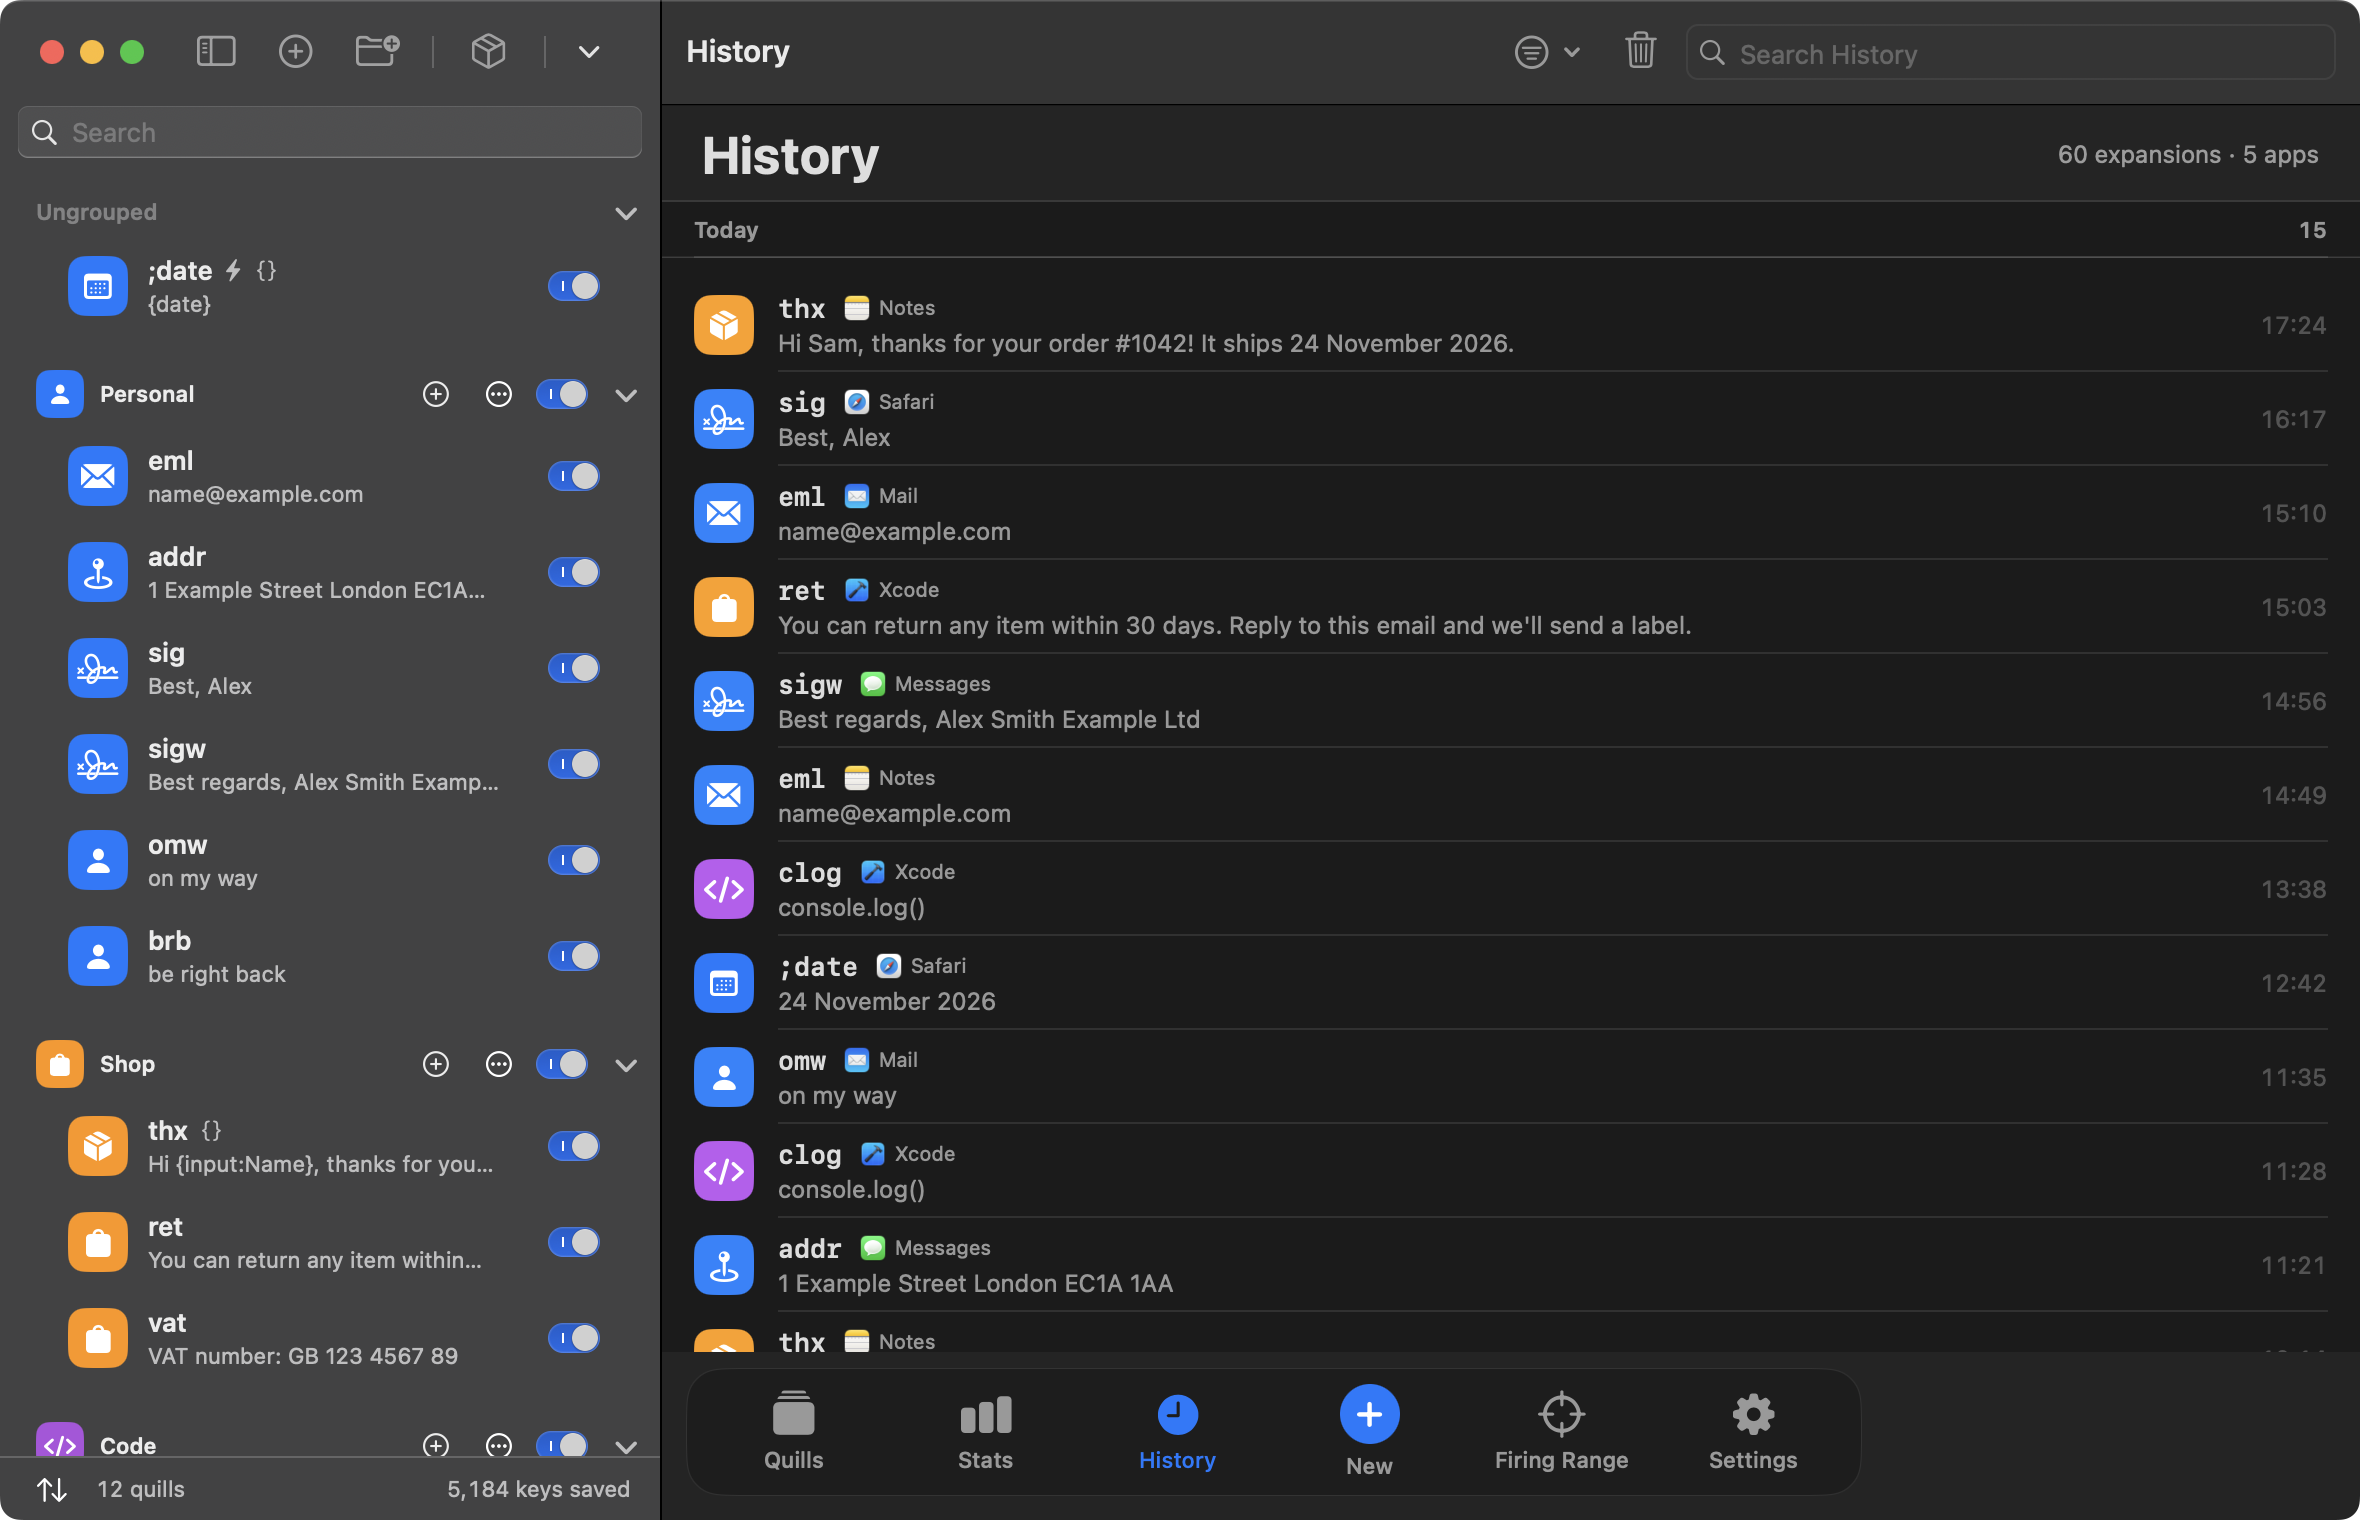
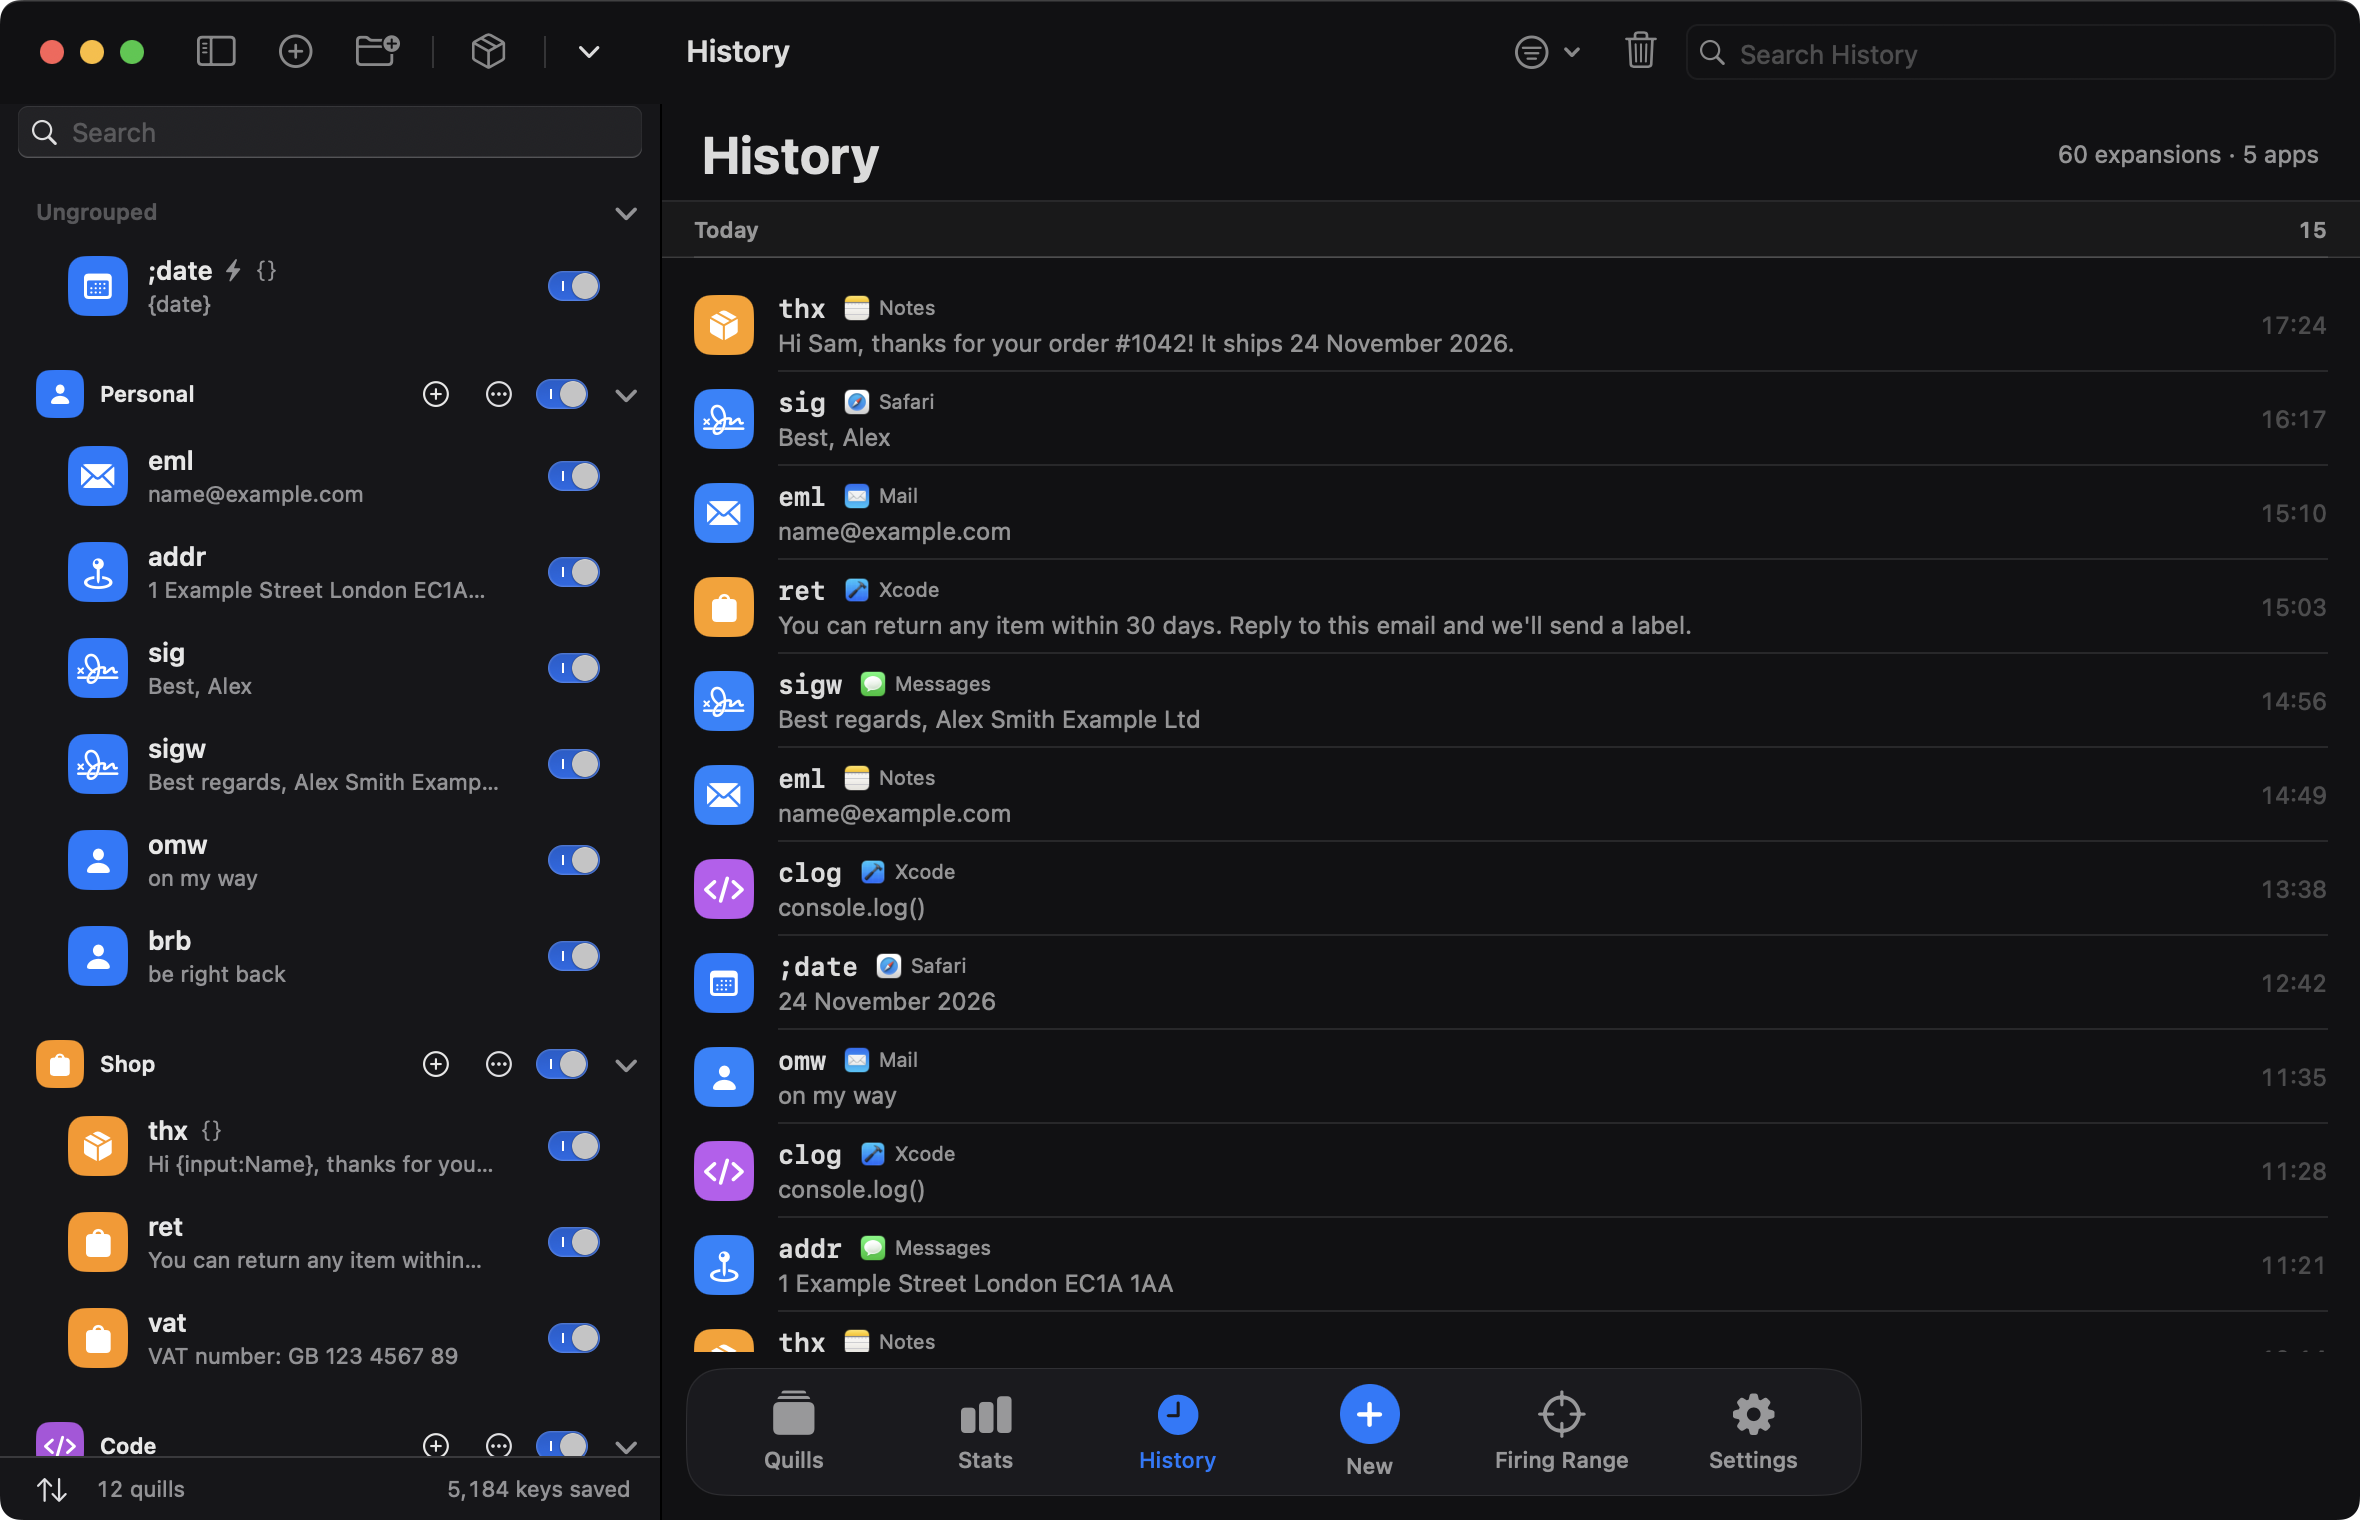
Quill 1.4.1: darker dark mode
Dark mode uses deeper surfaces for the sidebar, pages, editor, cards and tab
bars; light mode keeps the system colours. Screenshots refreshed.

diff --git a/Quill/Views/LibraryView.swift b/Quill/Views/LibraryView.swift
@@ -48,6 +48,8 @@ struct LibraryView: View {
                 MainTabBar()
                     .modifier(WindowCentred())
             }
+            .background(Surface.page)
+            .toolbarBackground(Surface.page, for: .windowToolbar)
         }
         .searchable(text: $searchText, placement: .sidebar, prompt: "Search")
         // Without a minimum, macOS can restore the window at a uselessly small size.
@@ -208,6 +210,7 @@ struct LibraryView: View {
             }
         }
         .listStyle(.sidebar)
+        .modifier(DarkSidebar())
         // Double-clicking a snippet opens Icon and Colour. The menu stays empty so each row keeps its own.
         .contextMenu(forSelectionType: SidebarItem.self) { _ in
         } primaryAction: { items in
@@ -433,7 +436,7 @@ private struct MainTabBar: View {
         }
         .padding(.horizontal, 8)
         .padding(.vertical, 6)
-        .background(.bar, in: RoundedRectangle(cornerRadius: 18, style: .continuous))
+        .background(Surface.bar, in: RoundedRectangle(cornerRadius: 18, style: .continuous))
         .overlay(RoundedRectangle(cornerRadius: 18, style: .continuous).strokeBorder(.separator, lineWidth: 0.5))
         .padding(.top, 8)
         .padding(.bottom, 12)
@@ -480,6 +483,21 @@ private struct MainTabBar: View {
         .help("New Quill (⌘N)")
         .accessibilityLabel("New Quill")
         .accessibilityIdentifier("tab-new")
+    }
+}
+
+/// In dark mode the sidebar gets Quill's darker, solid surface; light mode keeps the system sidebar.
+private struct DarkSidebar: ViewModifier {
+    @Environment(\.colorScheme) private var colorScheme
+
+    func body(content: Content) -> some View {
+        if colorScheme == .dark {
+            content
+                .scrollContentBackground(.hidden)
+                .background(Surface.sidebar)
+        } else {
+            content
+        }
     }
 }
 

diff --git a/Quill/Views/FiringRangeView.swift b/Quill/Views/FiringRangeView.swift
@@ -90,7 +90,7 @@ struct FiringRangeView: View {
                 .scrollContentBackground(.hidden)
                 .padding(10)
                 .focused($isTyping)
-                .background(Color(nsColor: .textBackgroundColor), in: RoundedRectangle(cornerRadius: 10))
+                .background(Surface.editor, in: RoundedRectangle(cornerRadius: 10))
                 .overlay(RoundedRectangle(cornerRadius: 10).strokeBorder(.separator))
                 .overlay(alignment: .topLeading) {
                     if text.isEmpty {
@@ -120,7 +120,7 @@ struct FiringRangeView: View {
                     .textFieldStyle(.plain)
             }
             .padding(8)
-            .background(.quaternary.opacity(0.6), in: RoundedRectangle(cornerRadius: 8))
+            .background(Surface.card, in: RoundedRectangle(cornerRadius: 8))
             .padding(12)
 
             List {
@@ -156,7 +156,7 @@ struct FiringRangeView: View {
             .listStyle(.inset)
             .scrollContentBackground(.hidden)
         }
-        .background(.background.secondary)
+        .background(Surface.sidebar)
     }
 
     /// Puts the cursor back in the practice text, then types the quill there.
@@ -184,7 +184,7 @@ private struct ScoreTile: View {
         }
         .frame(maxWidth: .infinity, alignment: .leading)
         .padding(12)
-        .background(.quaternary.opacity(0.5), in: RoundedRectangle(cornerRadius: 10))
+        .background(Surface.card, in: RoundedRectangle(cornerRadius: 10))
         .accessibilityElement(children: .combine)
     }
 }

diff --git a/Quill/Views/Styles.swift b/Quill/Views/Styles.swift
@@ -76,3 +76,26 @@ private struct WindowTracker: ViewModifier {
             }
     }
 }
+
+/// Quill's surfaces. Light mode keeps the system colours; dark mode goes a step darker
+/// than macOS's defaults, close to black, with the layers still apart.
+enum Surface {
+    /// Page backgrounds: Stats, History, Settings, the Firing Range, the empty editor.
+    static let page = dynamic(light: .windowBackgroundColor, dark: 0x111113)
+    /// Where text is typed: the editor and the practice area.
+    static let editor = dynamic(light: .textBackgroundColor, dark: 0x0C0C0E)
+    /// The quills sidebar (dark mode only; light keeps the system sidebar).
+    static let sidebar = dynamic(light: .windowBackgroundColor, dark: 0x161619)
+    /// Cards and tiles on a page.
+    static let card = dynamic(light: NSColor.labelColor.withAlphaComponent(0.05), dark: 0x1C1C20)
+    /// The floating tab bars.
+    static let bar = dynamic(light: .windowBackgroundColor, dark: 0x1A1A1E)
+
+    private static func dynamic(light: NSColor, dark hex: Int) -> Color {
+        let darkColor = NSColor(srgbRed: CGFloat((hex >> 16) & 0xFF) / 255, green: CGFloat((hex >> 8) & 0xFF) / 255,
+                                blue: CGFloat(hex & 0xFF) / 255, alpha: 1)
+        return Color(nsColor: NSColor(name: nil) { appearance in
+            appearance.bestMatch(from: [.darkAqua, .aqua]) == .darkAqua ? darkColor : light
+        })
+    }
+}

diff --git a/Quill/Views/OverviewView.swift b/Quill/Views/OverviewView.swift
@@ -62,7 +62,7 @@ struct OverviewView: View {
             .frame(maxWidth: 1040)
             .frame(maxWidth: .infinity)
         }
-        .background(Color(nsColor: .windowBackgroundColor))
+        .background(Surface.page)
         .navigationTitle("Stats")
     }
 
@@ -323,7 +323,7 @@ private struct StatTile: View {
         }
         .frame(maxWidth: .infinity, alignment: .leading)
         .padding(16)
-        .background(.quaternary.opacity(0.5), in: RoundedRectangle(cornerRadius: 12, style: .continuous))
+        .background(Surface.card, in: RoundedRectangle(cornerRadius: 12, style: .continuous))
         .accessibilityElement(children: .combine)
     }
 }
@@ -343,7 +343,7 @@ private struct Card<Content: View>: View {
         }
         .frame(maxWidth: .infinity, alignment: .leading)
         .padding(16)
-        .background(.quaternary.opacity(0.5), in: RoundedRectangle(cornerRadius: 12, style: .continuous))
+        .background(Surface.card, in: RoundedRectangle(cornerRadius: 12, style: .continuous))
     }
 }
 

diff --git a/Quill/Views/SettingsView.swift b/Quill/Views/SettingsView.swift
@@ -88,7 +88,7 @@ private struct SettingsTabBar: View {
             }
         }
         .padding(4)
-        .background(.bar, in: Capsule())
+        .background(Surface.bar, in: Capsule())
         .overlay(Capsule().strokeBorder(.separator, lineWidth: 0.5))
         .accessibilityElement(children: .contain)
         .accessibilityLabel("Settings tabs")
@@ -99,6 +99,7 @@ private struct SettingsTabBar: View {
 private extension View {
     func settingsPaneStyle() -> some View {
         formStyle(.grouped)
+            .scrollContentBackground(.hidden)
             .scrollDisabled(true)
             .fixedSize(horizontal: false, vertical: true)
     }

diff --git a/Quill/Views/MenuBarPanel.swift b/Quill/Views/MenuBarPanel.swift
@@ -304,7 +304,7 @@ struct MenuBarPanel: View {
         }
         .padding(.horizontal, 6)
         .padding(.vertical, 4)
-        .background(.bar, in: RoundedRectangle(cornerRadius: 14, style: .continuous))
+        .background(Surface.bar, in: RoundedRectangle(cornerRadius: 14, style: .continuous))
         .overlay(RoundedRectangle(cornerRadius: 14, style: .continuous).strokeBorder(.separator, lineWidth: 0.5))
     }
 

diff --git a/Quill/Views/SnippetDetailView.swift b/Quill/Views/SnippetDetailView.swift
@@ -28,7 +28,7 @@ struct SnippetDetailView: View {
             Divider()
             footer
         }
-        .background(Color(nsColor: .textBackgroundColor))
+        .background(Surface.editor)
         .navigationTitle(snippet.trigger.isEmpty ? "New Quill" : snippet.trigger)
         .toolbar {
             ToolbarItemGroup(placement: .primaryAction) {

diff --git a/Quill/Views/HistoryView.swift b/Quill/Views/HistoryView.swift
@@ -59,6 +59,7 @@ struct HistoryView: View {
                             }
                         }
                         .listStyle(.inset)
+                        .scrollContentBackground(.hidden)
                         .onDeleteCommand { state.history.remove(selection) }
                     }
                 }
